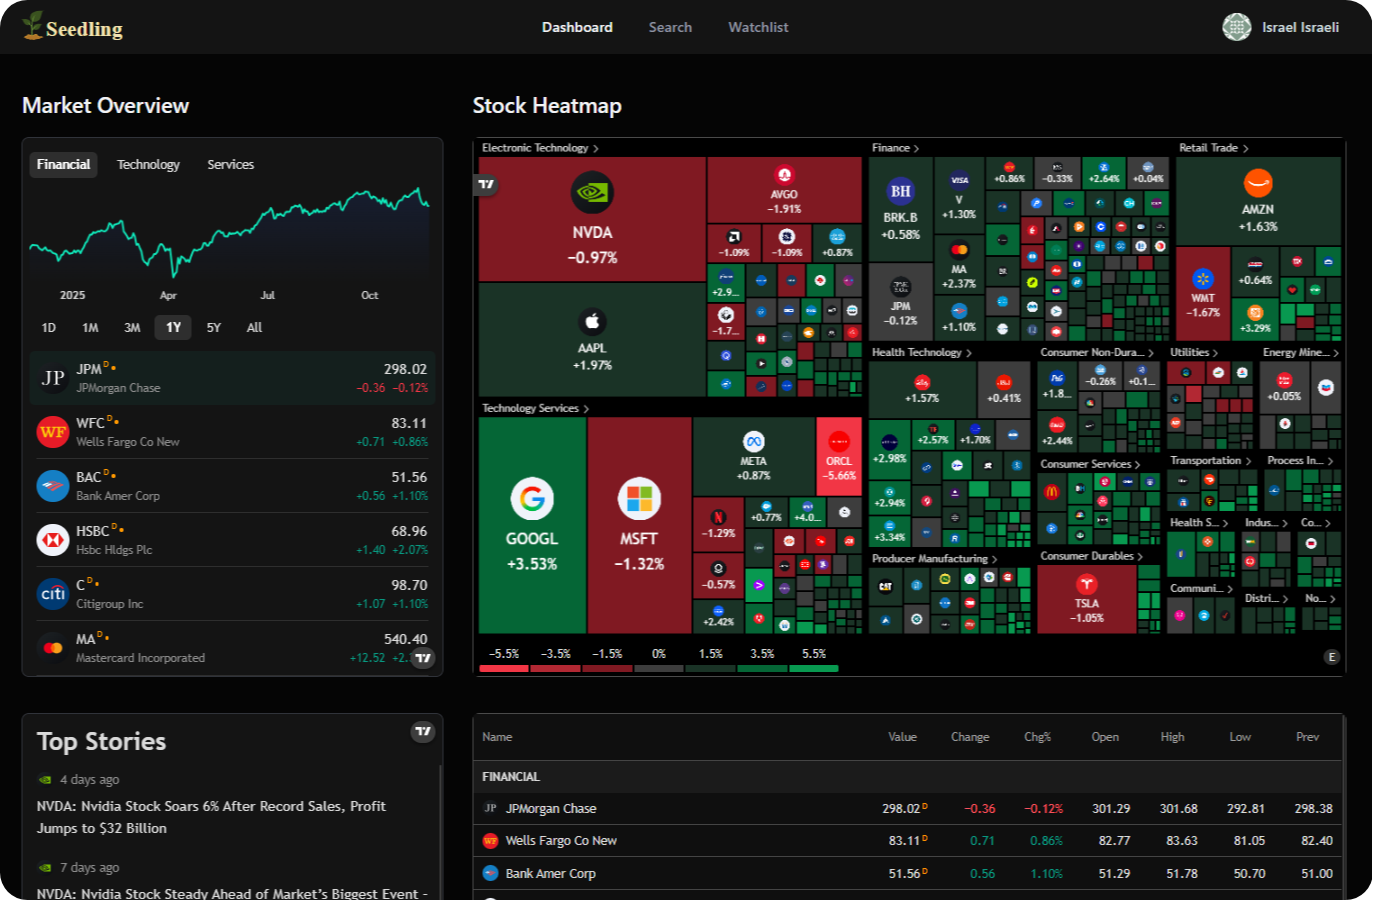
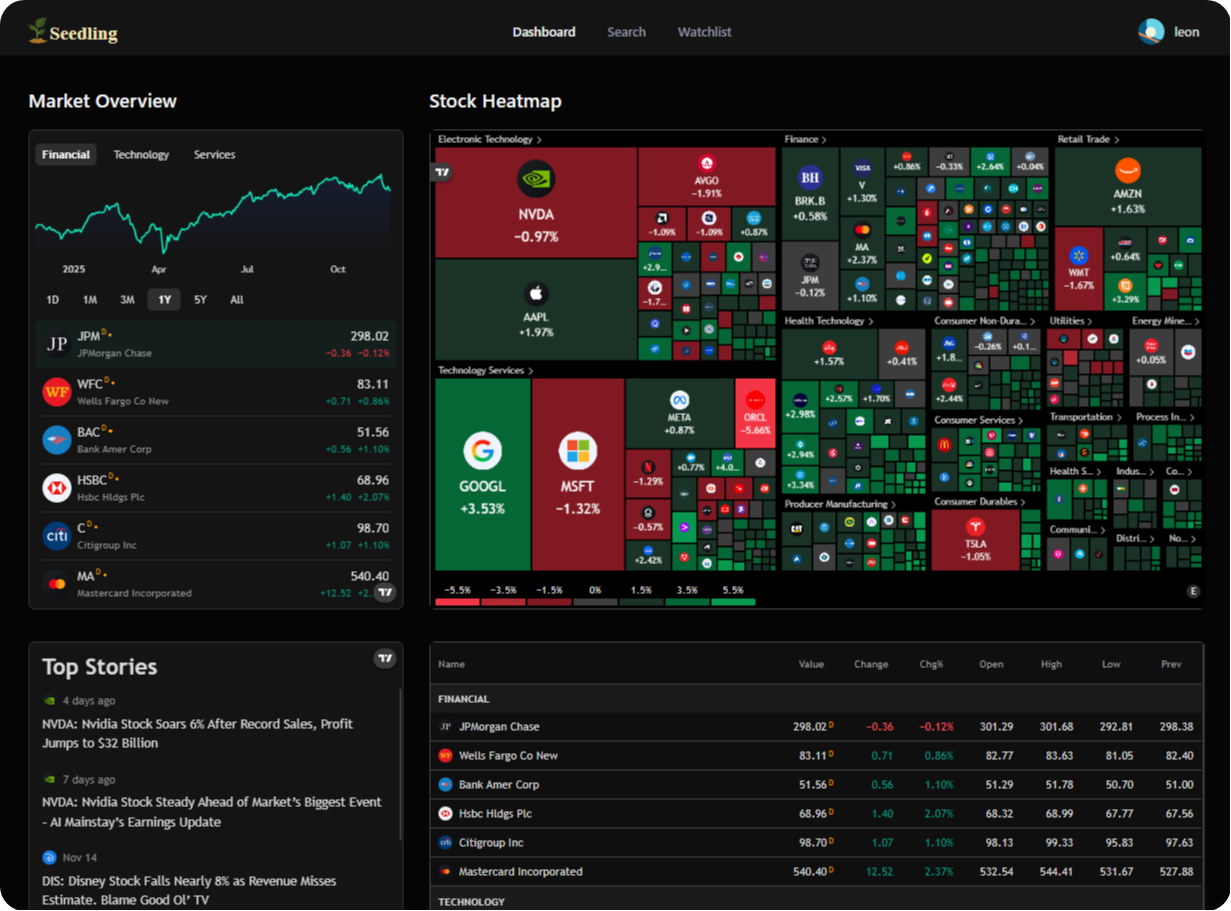
dashboard update

diff --git a/lib/nodemailer/templates.ts b/lib/nodemailer/templates.ts
@@ -104,7 +104,7 @@ export const WELCOME_EMAIL_TEMPLATE = `<!DOCTYPE html>
                     <!-- Dashboard Preview Image -->
                     <tr>
                         <td align="center" class="dashboard-preview" style="padding: 40px 40px 0px 40px;">
-                            <img src="https://ik.imagekit.io/a6fkjou7d/dashboard-preview.png?updatedAt=1756378548102" alt="Seedling Dashboard Preview" width="100%" style="max-width: 520px; width: 100%; height: auto; border-radius: 12px; border: 1px solid #30333A;">
+                            <img src="https://ik.imagekit.io/pxbkrgtqm/dashboard-preview.png?updatedAt=1763989520016" alt="Seedling Dashboard Preview" width="100%" style="max-width: 520px; width: 100%; height: auto; border-radius: 12px; border: 1px solid #30333A;">
                         </td>
                     </tr>
                     
